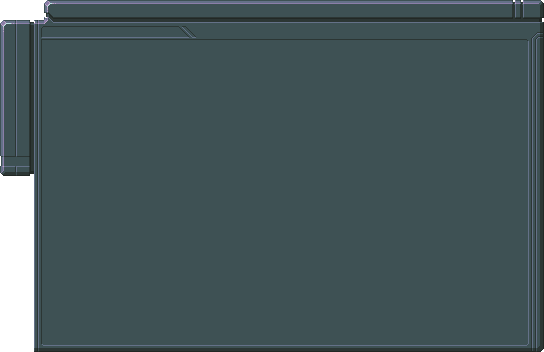
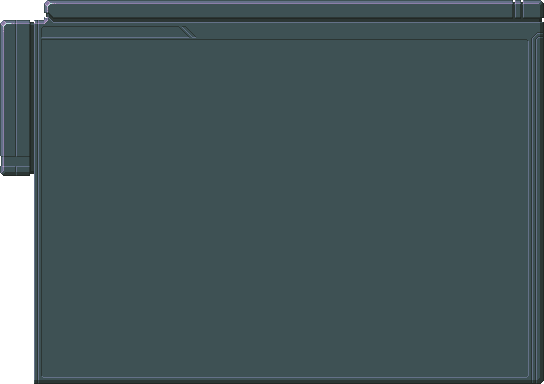
region

Changed region(s): [[0.0, 0.0312, 1.0, 0.125], [0.0938, 0.9688, 0.9688, 1.0], [0.0, 0.4062, 0.0625, 0.5]]

diff --git a/GGJGame/Classes/GameManager.cpp b/GGJGame/Classes/GameManager.cpp
@@ -36,6 +36,8 @@ GameManager::GameManager()
 	m_Year = 4000;
 	m_Month = 1;
 	m_Turn = 0;
+
+	initRegion();
 }
 
 GameManager::~GameManager()
@@ -109,4 +111,34 @@ void GameManager::setChatting(bool chat)
 bool GameManager::isChatting()
 {
 	return m_IsChatting;
+}
+
+void GameManager::initRegion()
+{
+	m_RegionData[RT_ALASKA_CANADA] = RegionData("알래스카 / 캐나다", "map\\alaska_canada.png", Rect(276, 24, 154, 76));
+	m_RegionData[RT_ARGENTINA_CHILE] = RegionData("아르헨티나 / 칠레", "map\\argentina_chile.png", Rect(399, 242, 40, 71));
+	m_RegionData[RT_BRAZIL] = RegionData("브라질", "map\\brazil.png", Rect(412, 192, 50, 76));
+	m_RegionData[RT_CARIBBEAN] = RegionData("카리브", "map\\caribbean.png", Rect(391, 183, 39, 65));
+	m_RegionData[RT_CENTRAL_AFRICA] = RegionData("중앙 아프리카", "map\\central_africa.png", Rect(34, 161, 39, 53));
+	m_RegionData[RT_CENTRAL_AMERICA] = RegionData("중앙 아메리카", "map\\central_america.png", Rect(321, 88, 118, 82));
+	m_RegionData[RT_CHINA] = RegionData("중국", "map\\china.png", Rect(137, 94, 68, 51));
+	m_RegionData[RT_EAST_AFRICA] = RegionData("동 아프리카", "map\\east_africa.png", Rect(69, 165, 36, 51));
+	m_RegionData[RT_EUROPE] = RegionData("유럽", "map\\europe.png", Rect(19, 46, 50, 76));
+	m_RegionData[RT_GREENLAND] = RegionData("그린란드", "map\\greenland.png", Rect(411, 20, 70, 55));
+	m_RegionData[RT_INDO] = RegionData("인도", "map\\indo.png", Rect(111, 125, 48, 45));
+	m_RegionData[RT_JAPAN] = RegionData("일본 열도", "map\\japan.png", Rect(223, 101, 26, 27));
+	m_RegionData[RT_KOREA] = RegionData("한국", "map\\korea.png", Rect(209, 115, 10, 10));
+	m_RegionData[RT_MEXICO] = RegionData("멕시코", "map\\mexico.png", Rect(349, 154, 62, 41));
+	m_RegionData[RT_NORTH_AFRICA] = RegionData("북 아프리카", "map\\north_africa.png", Rect(16, 126, 59, 40));
+	m_RegionData[RT_NORTH_ASIA] = RegionData("북 아시아", "map\\north_asia.png", Rect(66, 47, 202, 50));
+	m_RegionData[RT_OCEANIA] = RegionData("오세아니아", "map\\oceania.png", Rect(177, 193, 91, 66));
+	m_RegionData[RT_SOUTH_AFRICA] = RegionData("남 아프리카", "map\\south_africa.png", Rect(39, 212, 68, 50));
+	m_RegionData[RT_SOUTH_EAST_ASIA] = RegionData("동남 아시아", "map\\south_east_asia.png", Rect(155, 141, 80, 65));
+	m_RegionData[RT_SOUTH_WEST_ASIA] = RegionData("서남 아시아", "map\\south_west_asia.png", Rect(64, 114, 51, 45));
+	m_RegionData[RT_WEST_AFRICA] = RegionData("서 아프리카", "map\\west_africa.png", Rect(3, 126, 52, 70));
+}
+
+const RegionData& GameManager::getRegionData(RegionType type)
+{
+	return m_RegionData[type];
 }

diff --git a/GGJGame/Classes/MapTab.cpp b/GGJGame/Classes/MapTab.cpp
@@ -1,8 +1,17 @@
 #include "MapTab.h"
+#include "Region.h"
+#include "GameManager.h"
+
+USING_NS_CC;
 
 MapTab::MapTab()
 {
+	m_Sea = nullptr;
 
+	for (int i = 0; i < RT_NUM; i++)
+	{
+		m_Regions[i] = nullptr;
+	}
 }
 
 MapTab::~MapTab()
@@ -17,5 +26,60 @@ bool MapTab::init()
 		return false;
 	}
 
+	m_Sea = Sprite::create("map\\sea.png");
+	addChild(m_Sea);
+	m_Sea->setAnchorPoint(Point(0, 1));
+	m_Sea->setPosition(Point(MAP_ORIGIN_X, MAP_ORIGIN_Y));
+	
+	for (int i = 0; i < RT_NUM; i++)
+	{
+		m_Regions[i] = Region::createWithRegionType(static_cast<RegionType>(i));
+		addChild(m_Regions[i]);
+		m_Regions[i]->setAnchorPoint(Point(0, 1));
+		m_Regions[i]->setPosition(MAP_ORIGIN_X,MAP_ORIGIN_Y);
+	}
+
+	auto mouseListener = EventListenerMouse::create();
+	mouseListener->onMouseMove = CC_CALLBACK_1(MapTab::onMouseMove, this);
+	_eventDispatcher->addEventListenerWithSceneGraphPriority(mouseListener, this);
+
+	scheduleUpdate();
+
 	return true;
+}
+
+void MapTab::update(float dTime)
+{
+
+}
+
+void MapTab::onMouseMove(cocos2d::Event* event)
+{
+	EventMouse* e = static_cast <EventMouse*>(event);
+	Point cursor(e->getCursorX() - MAP_ORIGIN_X, -WND_HEIGHT - e->getCursorY() + MAP_ORIGIN_Y);
+	int movedRegion = -1;
+
+	for (int i = 0; i < RT_NUM; i++)
+	{
+		auto data = GameManager::getInstance()->getRegionData(static_cast<RegionType>(i));
+
+		if (data.m_Area.containsPoint(cursor))
+		{
+			movedRegion = i;
+			break;
+		}
+	}
+
+	for (int i = 0; i < RT_NUM; i++)
+	{
+		auto data = GameManager::getInstance()->getRegionData(static_cast<RegionType>(i));
+
+		if (i == movedRegion)
+		{
+			m_Regions[i]->setRegionColor(REGION_MOVE);
+			continue;
+		}
+
+		m_Regions[i]->setRegionColor(data.getStateColor());
+	}
 }

diff --git a/GGJGame/Classes/Region.cpp b/GGJGame/Classes/Region.cpp
@@ -1,1 +1,99 @@
-
+#include "Region.h"
+#include "GameManager.h"
+
+USING_NS_CC;
+
+RegionData::RegionData(const std::string& name, const std::string& spriteName, const cocos2d::Rect& area)
+{
+	m_Name = name;
+	m_SpriteName = spriteName;
+	m_Area = area;
+	m_IsDeveloped = false;
+}
+
+RegionData::RegionData()
+{
+	m_Name = "";
+	m_SpriteName = "";
+	m_Area = Rect(0, 0, 0, 0);
+}
+
+RegionData::~RegionData()
+{
+
+}
+
+cocos2d::Color3B RegionData::getStateColor()
+{
+	if (m_IsDeveloped)
+	{
+		return REGION_DEVELOP;
+	}
+	else
+	{
+		return REGION_UNKNOWN;
+	}
+}
+
+Region::Region()
+{
+	m_Type = RT_NONE;
+	m_RegionSprite = nullptr;
+}
+
+Region::~Region()
+{
+}
+
+
+bool Region::init()
+{
+	if (!Node::init())
+	{
+		return false;
+	}
+
+	return true;
+}
+
+bool Region::initWithRegionType(RegionType type)
+{
+	if (!Node::init())
+	{
+		return false;
+	}
+
+	m_Type = type;
+	auto data = GameManager::getInstance()->getRegionData(type);
+
+	m_RegionSprite = Sprite::create(data.m_SpriteName);
+
+	addChild(m_RegionSprite);
+	m_RegionSprite->setAnchorPoint(Point(0, 1));
+	setRegionColor(data.getStateColor());
+
+	return true;
+}
+
+Region* Region::createWithRegionType(RegionType type)
+{
+	Region* region = new Region();
+
+	if (region && region->initWithRegionType(type))
+	{
+		region->autorelease();
+		return region;
+	}
+	else
+	{
+		delete region;
+		region = nullptr;
+
+		return region;
+	}
+}
+
+void Region::setRegionColor(cocos2d::Color3B color)
+{
+	m_RegionSprite->setColor(color);
+}

diff --git a/GGJGame/Classes/Region.h b/GGJGame/Classes/Region.h
@@ -1,1 +1,39 @@
 
+#ifndef _REGION_H_
+#define _REGION_H_
+#include "cocos2d.h"
+#include "macro.h"
+
+struct RegionData
+{
+	RegionData(const std::string& name, const std::string& spriteName, const cocos2d::Rect& area);
+	RegionData();
+	~RegionData();
+	cocos2d::Color3B getStateColor();
+
+	std::string m_Name;
+	std::string m_SpriteName;
+	cocos2d::Rect m_Area;
+	float m_IsDeveloped;
+};
+
+class Region : public cocos2d::Node
+{
+public:
+	Region();
+	~Region();
+
+	virtual bool init();
+	bool initWithRegionType(RegionType type);
+
+	static Region* createWithRegionType(RegionType type);
+	CREATE_FUNC(Region);
+
+	void setRegionColor(cocos2d::Color3B color);
+
+private:
+	RegionType m_Type;
+	cocos2d::Sprite* m_RegionSprite;
+};
+
+#endif

diff --git a/GGJGame/Classes/macro.h b/GGJGame/Classes/macro.h
@@ -7,9 +7,18 @@
 #define WND_HEIGHT 480
 #define TEXT_COLOR (cocos2d::Color3B(191, 228, 230))
 #define TEXT_FONT ("NanumBarunGothicBold")
+#define REGION_DEVELOP (cocos2d::Color3B(116,164,53))
+#define REGION_UNKNOWN (cocos2d::Color3B(0,0,0))
+#define REGION_DANGER (cocos2d::Color3B(255,64,64))
+#define REGION_CAUTION (cocos2d::Color3B(255,149,25))
+#define REGION_SAFE (cocos2d::Color3B(57,108,108))
+#define REGION_MOVE (cocos2d::Color3B(204,204,204))
+#define MAP_ORIGIN_X 93
+#define MAP_ORIGIN_Y 387
 
 enum RegionType
 {
+	RT_NONE = -1,
 	RT_ALASKA_CANADA,
 	RT_ARGENTINA_CHILE,
 	RT_BRAZIL,
@@ -31,7 +40,7 @@ enum RegionType
 	RT_SOUTH_EAST_ASIA,
 	RT_SOUTH_WEST_ASIA,
 	RT_WEST_AFRICA,
-	RT_REGION_NUM,
+	RT_NUM,
 };
 
 #endif

diff --git a/GGJGame/Classes/Window.cpp b/GGJGame/Classes/Window.cpp
@@ -54,14 +54,14 @@ bool Window::init()
 	m_CaptionLabel = Label::createWithSystemFont("", TEXT_FONT, 14);
 	addChild(m_CaptionLabel);
 	m_CaptionLabel->setAnchorPoint(Point(0, 1));
-	m_CaptionLabel->setPosition(Point(105, 414));
+	m_CaptionLabel->setPosition(Point(105, 430));
 	m_CaptionLabel->setColor(TEXT_COLOR);
 
 	auto exitButton = MenuItemImage::create("exitButton.png", "exitButton.png", CC_CALLBACK_1(Window::exitButtonCallback, this));
 	auto menu = Menu::create(exitButton, nullptr);
 
 	menu->alignItemsVertically();
-	menu->setPosition(Point(580, 406));
+	menu->setPosition(Point(580, 422));
 
 	addChild(menu);
 

diff --git a/GGJGame/Classes/GameManager.h b/GGJGame/Classes/GameManager.h
@@ -3,6 +3,7 @@
 #define _GAME_MANAGER_H_
 
 #include "cocos2d.h"
+#include "Region.h"
 
 
 class GameManager
@@ -22,9 +23,12 @@ public:
 	void					turnEnd();
 	void					setChatting(bool chat);
 	bool					isChatting();
+	const RegionData&		getRegionData(RegionType type);
 private:
 	GameManager();
 	~GameManager();
+
+	void					initRegion();
 
 	static GameManager* m_Instance;
 
@@ -39,6 +43,8 @@ private:
 
 	//몇 번째 차례인지. 겉으로 보이긴 year / month 가 기준이지만 실제로는 이 turn을 바탕으로 시뮬레이션 수행.
 	int m_Turn;
+
+	RegionData m_RegionData[RT_NUM];
 };
 
 #endif

diff --git a/GGJGame/Classes/Tab.cpp b/GGJGame/Classes/Tab.cpp
@@ -26,7 +26,7 @@ bool Tab::init()
 	addChild(m_Caption);
 	m_Caption->setVisible(false);
 	m_Caption->setAnchorPoint(Point(0, 1));
-	m_Caption->setPosition(Point(96, 393));
+	m_Caption->setPosition(Point(96, 409));
 	m_Caption->setColor(TEXT_COLOR);
 
 	return true;
@@ -42,7 +42,7 @@ bool Tab::initWithCaptionAndIcon(const std::string& caption, const std::string& 
 	addChild(m_Caption);
 	m_Caption->setVisible(false);
 	m_Caption->setAnchorPoint(Point(0, 1));
-	m_Caption->setPosition(Point(96, 393));
+	m_Caption->setPosition(Point(96, 409));
 	m_Caption->setColor(TEXT_COLOR);
 
 	m_IconName = iconFileName;

diff --git a/GGJGame/Classes/MapTab.h b/GGJGame/Classes/MapTab.h
@@ -1,7 +1,9 @@
 #ifndef _MAP_TAB_H_
 #define _MAP_TAB_H_
 #include "Tab.h"
+#include "Macro.h"
 
+class Region;
 class MapTab : public Tab
 {
 public:
@@ -10,8 +12,14 @@ public:
 
 	virtual bool init();
 
+	void update(float dTime);
+
+	void onMouseMove(cocos2d::Event* event);
+
 	CREATE_FUNC(MapTab);
 private:
+	cocos2d::Sprite* m_Sea;
+	Region* m_Regions[RT_NUM];
 };
 
 #endif

diff --git a/GGJGame/Classes/MainUILayer.cpp b/GGJGame/Classes/MainUILayer.cpp
@@ -209,7 +209,6 @@ void MainUILayer::orderButtonCallback(cocos2d::Ref* sender)
 
 void MainUILayer::reportButtonCallback(cocos2d::Ref* sender)
 {
-	
 	MapTab* mapTab = MapTab::create();
 	Window* window = Window::createWithTabs("report", mapTab, nullptr);
 	addChild(window);
